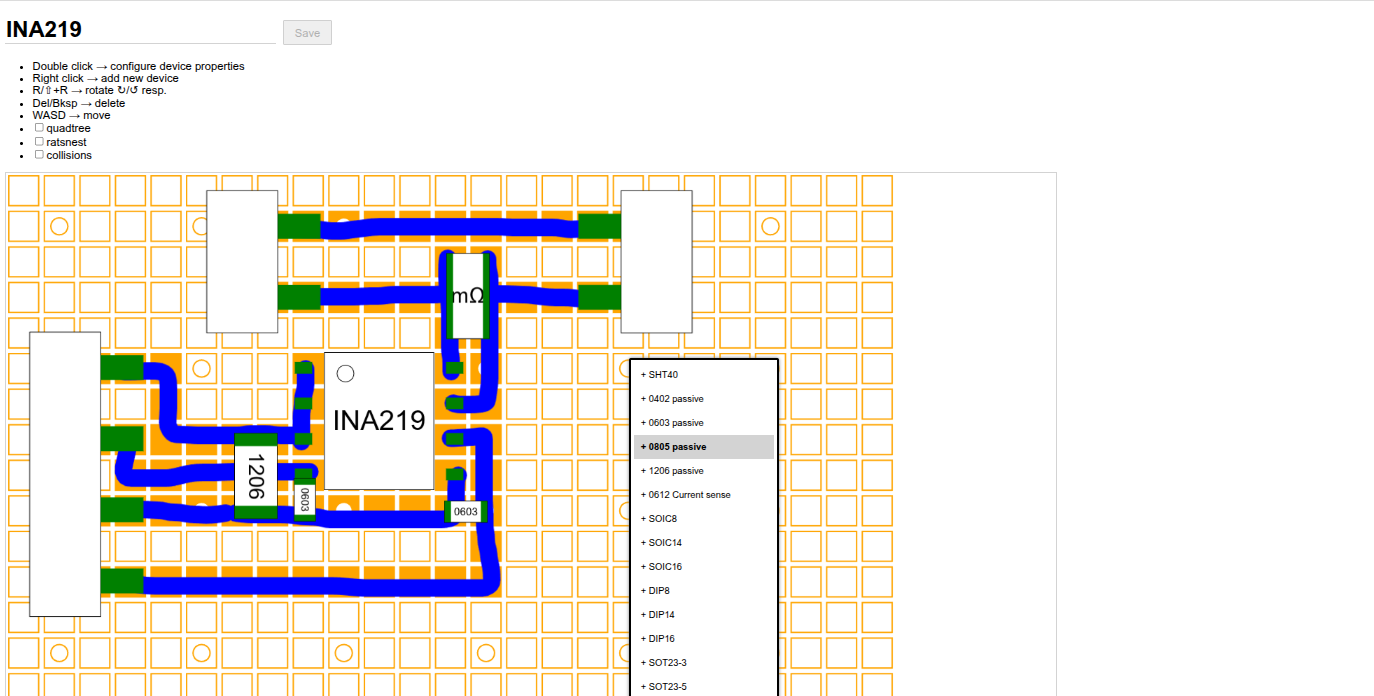
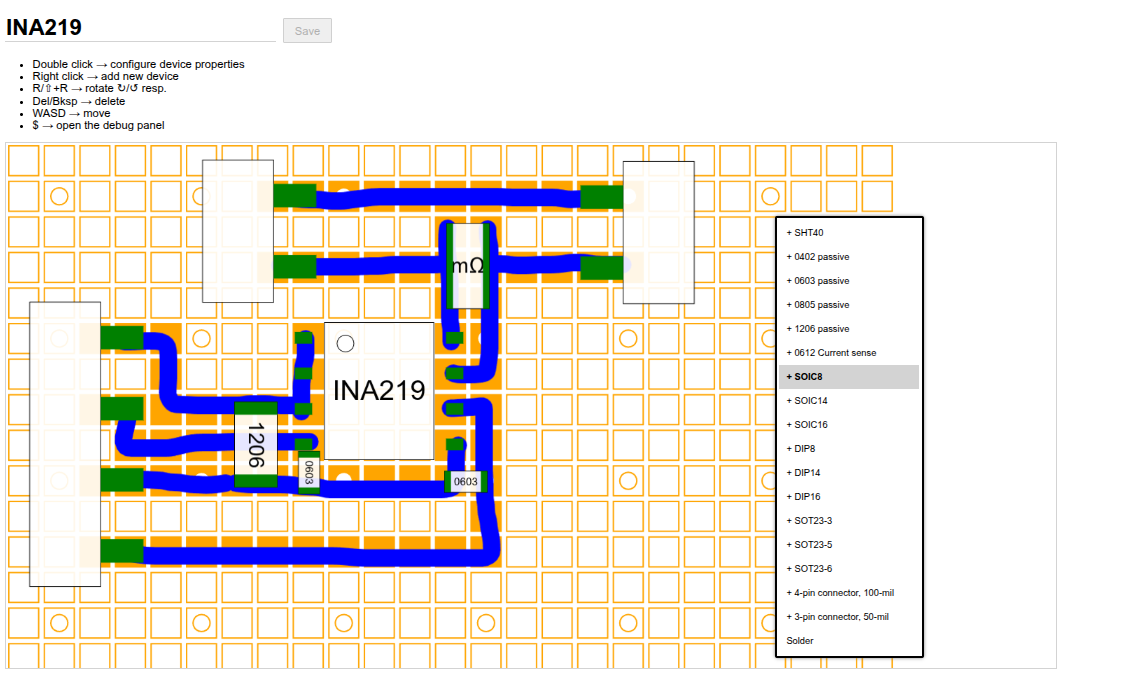
Move the debug menu to $ key so it works on more keyboard layouts

diff --git a/src/lib/editor.ts b/src/lib/editor.ts
@@ -128,7 +128,7 @@ export function setupEditor(canvasEl: HTMLCanvasElement): Canvas {
     canvas.elements.upper.el.addEventListener("keydown", function (ev) {
         // GLOBAL SHORTCUTS, DON'T REQUIRE AN ELEMENT SELECTED
         switch (ev.key) {
-            case "º":
+            case "$":
                 // @ts-expect-error toggleDebug is a custom event on Canvas
                 canvas.fire("toggleDebug")
                 break

diff --git a/src/routes/editor/[id]/+page.svelte b/src/routes/editor/[id]/+page.svelte
@@ -107,7 +107,7 @@
     <li>R/⇧+R → rotate ↻/↺ resp.</li>
     <li>Del/Bksp → delete</li>
     <li>WASD → move</li>
-    <li>º → open the debug panel</li>
+    <li>$ → open the debug panel</li>
 </ul>
 
 <div id="tweakpaneControls" bind:this={paramsPane}></div>

diff --git a/readme.md b/readme.md
@@ -7,6 +7,17 @@ The editor looks like this:
 
 ![a screenshot of the editor's UI showing a few components connected with solder lines](public/images/ui.png)
 
+Usage:
+
+* Right-click to open the Devices selector, on which you can add a new device (or a solder line)
+* Drag and drop devices to move them around. Their electrical connectivity (to protoboard pads, solder lines, or other 
+  devices' pins) will be automatically updated
+* For most devices, double-click on them to 
+* Press the Delete or Backspace keys to delete the currently selected device
+* Press the R key to rotate the device 90 degrees clockwise. Press Shift+R to rotate 90 degrees counterclockwise
+* Press the arrow keys or WASD to move the currently selected device. Also hold Shift for larger steps
+* Press the $ key to open a debug menu, where some internal visualizations can be toggled on/off
+
 ## Features
 
 ### Boards
@@ -44,12 +55,16 @@ touch to become electrically connected.
 
 ![a screenshot of the editor showing two solder lines, one already placed and another being drawn](public/images/solder.png)
 
-By toggling the Ratsnest checkbox, you can display lines that connect device pins that are electrically connected. Two 
-pins are connected if they share a board pad, or if they are connected via solder lines. This is equivalent to a 
-"netlist" in a schematic program. Note the pink dashed lines in the image below, they indicate pairs of pins which are
-connected to each other.
+To show all the device pins that are interconnected together, press the $ key to open the hidden debug menu, and then
+enable the Ratsnest checkbox. This will display lines that connect device pins that are electrically connected. Two 
+pins are connected if they physically touch, share a board pad, or they are connected via solder lines. This is equivalent to a 
+"netlist" in a schematic program. Note the colored dashed lines in the images below, they indicate pins which are
+connected to each other and therefore belong to the same net (assumed to always be at the same voltage at all times, 
+except for transmission line delays, at which point you probably shouldn't be using a protoboard anyway):
 
-![a screenshot of the editor with Ratsnets mode activated, displaying pink lines that join device pins that are electrically connected, either directly or via solder lines](public/images/ratsnest.png)
+![a screenshot of the editor with Ratsnets mode activated, displaying colored lines that join device pins that are electrically connected, either directly or via solder lines](public/images/ratsnest.png)
+
+![a screenshot of another circuit with Ratsnest mode activated, where ](public/images/ratsnest2.png)
 
 ### DEV
 
@@ -62,6 +77,7 @@ Known errors/TODOs:
     * check if it's that the move event fires on the group and doesn't propagate to the individual (Device|Path)s
     - [ ] BUG2 now it works while dragging but colldet breaks after deselecting
 - [ ] BUG repeatedly removing&readding a whole side of pins (for SOIC, DIP, SOT23 packages) messes up side-to-side alignment
+- [ ] BUG component labels (tag) aren't stored if they have changed
 
 - [x] add holes every 4 pads in X, Y
 - [x] readd the through-hole protoboard
@@ -84,7 +100,8 @@ Known errors/TODOs:
 - [ ] undo/redo stack???
 - [ ] netlist-ish features
     - [x] link pin->pin, display ratsnest unless connected via pads/solder
-    * show netlist
+    - [x] euclidean minimum spanning tree for cleanest ratsnest, currently it can jump around
+    * show netlist as text
     * import from some standard netlist format???
     * export to some standard netlist format???
 - [ ] import KiCAD schematic?
